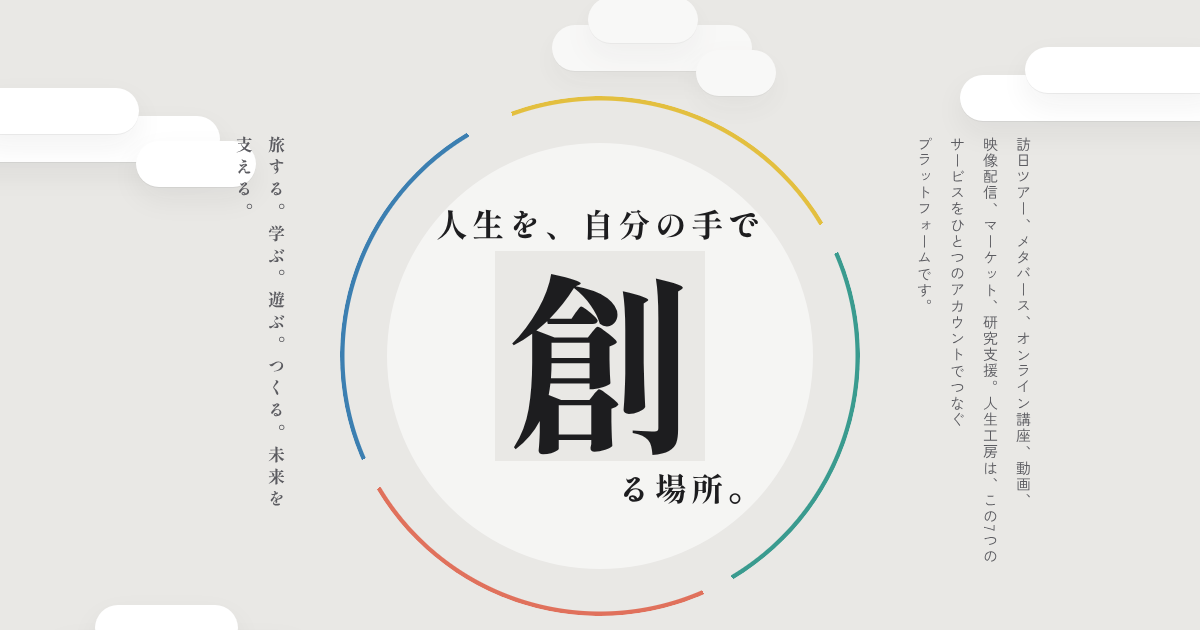
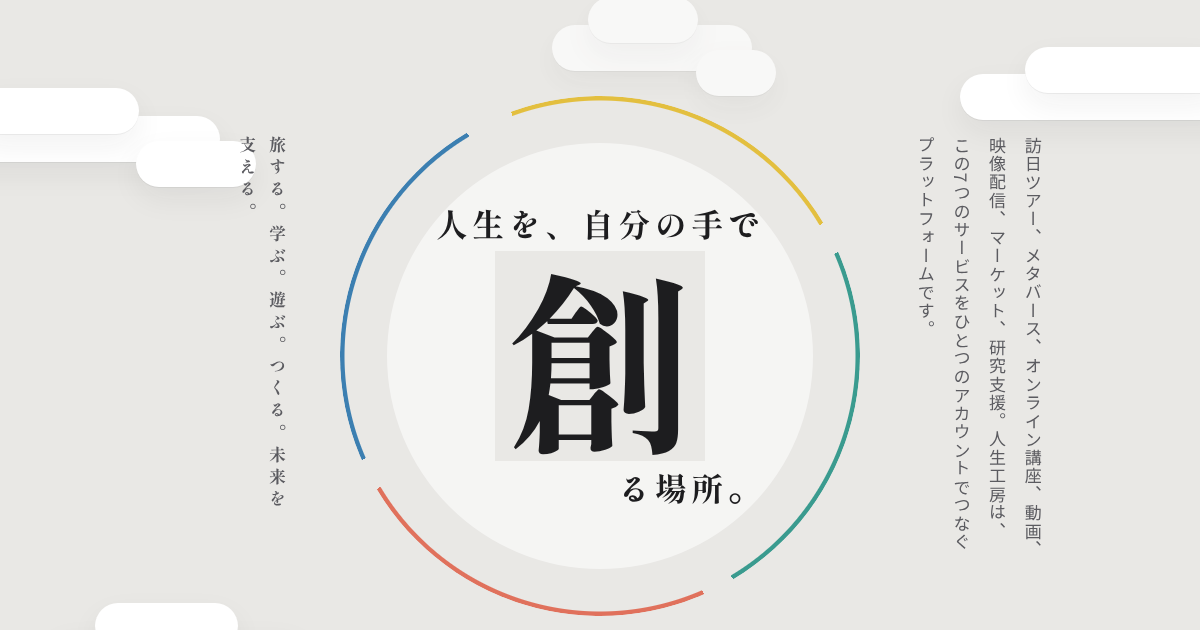
デジタル庁デザインシステムとMaterial 3の基準をデザインに反映
- 全テキストのコントラストをWCAG 2.2 AA以上に（ライト・ダークとも計測で0件）
- 文字サイズと行間をデジタル庁トークンの段階にそろえ、本文の下限を14pxに
- 本文書体をNoto Sans JPに変更し、意味色と影にデジタル庁トークンを使用
- 角丸をMaterial 3のshape scaleに統一（ボタンはfull、カードは12px）
- ホバー・フォーカス・押下の状態レイヤーをMaterial 3の値で実装
- 動きの速さと加減速をMaterial 3のmotionトークンにそろえる
- どの背景でも見える二重のフォーカスリングを追加
- 入力欄に見えるラベルを付け、エラーで原因と直し方を伝える

Claude-Session: https://claude.ai/code/session_01LBACWGkgaPbj2pynbsXujo

diff --git a/assets/css/style.css b/assets/css/style.css
@@ -18,23 +18,51 @@
   --mist-edge: rgba(29, 29, 31, .06);
   --primary: #1d1d1f;
   --primary-ink: #ffffff;
-  --shu: #e0715c;           /* 朱（半円・強調） */
+  --shu: #c33e25;           /* 朱（白文字を載せる面・強調文字。白地で5.2:1） */
+  --ring-shu: #e0715c;      /* 朱（装飾の円のみ） */
   --ki: #e3bf3f;            /* 黄 */
   --aomidori: #3a9b8f;      /* 青緑 */
   --ai: #3c7fb1;            /* 藍 */
   --shadow: 0 1px 2px rgba(29, 29, 31, .05), 0 10px 30px rgba(29, 29, 31, .06);
 
-  --c-tour: #b5642f;
+  /* サービス色：すべて白地・紙地で 4.6:1 以上（WCAG 2.2 AA） */
+  --c-tour: #a35a2a;
   --c-meta: #5a49b8;
-  --c-academy: #3f8a5f;
-  --c-channel: #c0463b;
-  --c-theater: #9a7420;
-  --c-market: #3c7fb1;
-  --c-fund: #2f8c80;
+  --c-academy: #377853;
+  --c-channel: #bc453a;
+  --c-theater: #89671c;
+  --c-market: #36719e;
+  --c-fund: #29796f;
+
+  /* 意味色：デジタル庁デザインシステムのトークン値 */
+  --success: #197a4b;       /* color-semantic-success-2 */
+  --error: #ce0000;         /* color-semantic-error-2 */
+  --warning: #c74700;       /* color-semantic-warning-orange-2 */
+  --focus-ring: #0017c1;    /* color-key-900（primitive blue-900） */
+
+  /* 角丸：Material 3 の shape scale */
+  --shape-xs: 4px;   /* corner-extra-small：入力欄・印 */
+  --shape-sm: 8px;   /* corner-small：チップ */
+  --shape-md: 12px;  /* corner-medium：カード */
+  --shape-lg: 16px;  /* corner-large：大きな面 */
+  --shape-xl: 28px;  /* corner-extra-large */
+  --shape-full: 9999px; /* corner-full：ボタン */
+
+  /* 動き：Material 3 の easing / duration */
+  --ease-standard: cubic-bezier(.2, 0, 0, 1);
+  --ease-emph-decel: cubic-bezier(.05, .7, .1, 1);
+  --dur-short: 200ms;    /* duration-short4 */
+  --dur-medium: 300ms;   /* duration-medium2 */
+  --dur-long: 500ms;     /* duration-long2 */
+
+  /* 影：デジタル庁デザインシステムの elevation トークン */
+  --elevation-1: 0 2px 8px 1px rgba(0,0,0,.1), 0 1px 5px 0 rgba(0,0,0,.3);
+  --elevation-2: 0 2px 12px 2px rgba(0,0,0,.1), 0 1px 6px 0 rgba(0,0,0,.3);
+  --elevation-4: 0 6px 20px 4px rgba(0,0,0,.1), 0 2px 6px 0 rgba(0,0,0,.3);
 
   /* 書体：見出し＝明朝、本文＝やわらかいゴシック、英字ラベル＝等幅 */
   --font-display: "Shippori Mincho", "Hiragino Mincho ProN", "Yu Mincho", serif;
-  --font: "Zen Kaku Gothic New", system-ui, -apple-system, "Hiragino Sans", "Noto Sans JP", sans-serif;
+  --font: "Noto Sans JP", system-ui, -apple-system, "Hiragino Sans", sans-serif;
   --font-mono: "IBM Plex Mono", ui-monospace, "SFMono-Regular", monospace;
 
   --radius: 4px;
@@ -246,7 +274,7 @@ button { cursor: pointer; }
   background: conic-gradient(from -20deg,
     var(--ki) 0 22%, transparent 22% 24%,
     var(--aomidori) 24% 47%, transparent 47% 49%,
-    var(--shu) 49% 72%, transparent 72% 74%,
+    var(--ring-shu) 49% 72%, transparent 72% 74%,
     var(--ai) 74% 97%, transparent 97% 100%);
   -webkit-mask: radial-gradient(farthest-side, transparent calc(100% - 5px), #000 calc(100% - 4px));
           mask: radial-gradient(farthest-side, transparent calc(100% - 5px), #000 calc(100% - 4px));
@@ -421,7 +449,7 @@ button { cursor: pointer; }
 .price small { font-size: 12px; font-weight: 500; color: var(--text-sub); margin-left: 2px; }
 .lang { display: flex; gap: 4px; flex-wrap: wrap; }
 .lang span { font-family: var(--font-mono); font-size: 11px; border: 1px solid var(--line); border-radius: 2px; padding: 0 6px; }
-.stars { color: #b8860b; font-size: 13px; font-weight: 700; }
+.stars { color: #8d6608; font-size: 13px; font-weight: 700; }
 
 /* 写真の光と質感をそろえる：左上から光、下に影 */
 .card__thumb::after, .video__thumb::after, .poster::after {
@@ -529,7 +557,7 @@ button { cursor: pointer; }
 .tag-auction { color: var(--c-market); font-weight: 900; font-size: 12px; }
 .tag-buy { color: var(--c-academy); font-weight: 900; font-size: 12px; }
 .bids { font-size: 12px; color: var(--text-sub); }
-.ends { font-family: var(--font-mono); font-size: 12px; color: #c8382c; font-weight: 600; font-variant-numeric: tabular-nums; }
+.ends { font-family: var(--font-mono); font-size: 12px; color: var(--error); font-weight: 600; font-variant-numeric: tabular-nums; }
 .ends.is-soon { animation: blink 1s steps(2) infinite; }
 @keyframes blink { 50% { opacity: .45; } }
 .watch {
@@ -566,8 +594,8 @@ button { cursor: pointer; }
 .fund__nums span { font-size: 11px; color: var(--text-sub); }
 .fund__risk { font-size: 12px; }
 .fund__risk b { display: inline-block; padding: 0 8px; border-radius: 2px; color: #fff; }
-.fund__risk b[data-r="中"] { background: #c27a12; }
-.fund__risk b[data-r="高"] { background: #c8382c; }
+.fund__risk b[data-r="中"] { background: var(--warning); }
+.fund__risk b[data-r="高"] { background: var(--error); }
 .fund__body .btn { margin-top: auto; }
 
 .sim { margin-top: 40px; background: var(--surface); border-radius: var(--radius); padding: 28px 20px; display: grid; gap: 24px; }
@@ -599,9 +627,9 @@ button { cursor: pointer; }
 }
 .venn__c b { font-family: var(--font-display); font-weight: 800; font-size: clamp(16px, 4vw, 22px); letter-spacing: .06em; line-height: 1.4; }
 .venn__c span { font-size: 12px; opacity: .92; line-height: 1.5; }
-.venn__c--1 { left: 22%; top: 0; background: #4f8f74; padding-bottom: 22%; }
-.venn__c--2 { left: 0; bottom: 0; background: #4a90b5; padding-right: 20%; padding-top: 16%; }
-.venn__c--3 { right: 0; bottom: 0; background: #e0715c; padding-left: 20%; padding-top: 16%; }
+.venn__c--1 { left: 22%; top: 0; background: #417660; padding-bottom: 22%; }
+.venn__c--2 { left: 0; bottom: 0; background: #3b7391; padding-right: 20%; padding-top: 16%; }
+.venn__c--3 { right: 0; bottom: 0; background: var(--shu); padding-left: 20%; padding-top: 16%; }
 .venn__core {
   position: absolute; left: 50%; top: 57%; transform: translate(-50%, -50%);
   background: var(--surface); color: var(--text); padding: 4px 10px; border-radius: 2px;
@@ -653,7 +681,7 @@ button { cursor: pointer; }
 @media (max-width: 767px) { .join__arc { --arc-w: 170vw; border-radius: 50% 50% 0 0 / 60% 60% 0 0; } }
 .join__title { font-family: var(--font-display); font-weight: 800; font-size: clamp(24px, 4vw, 38px); letter-spacing: .08em; }
 :root[lang="en"] .join__title { letter-spacing: 0; }
-.join__inner > p:not(.join__msg) { margin-top: 12px; color: rgba(255,255,255,.9); }
+.join__inner > p:not(.join__msg) { margin-top: 12px; color: #fff; }
 .join__form { margin: 28px auto 0; display: flex; flex-wrap: wrap; gap: 10px; max-width: 540px; }
 .join__form input { flex: 1 1 240px; min-width: 0; min-height: 52px; padding: 0 20px; border-radius: 2px; border: 0; color: #111; background: #fff; }
 .join__form .btn { flex: 1 1 180px; }
@@ -708,3 +736,88 @@ button { cursor: pointer; }
   .concept__stamps li { width: 40px; height: 40px; font-size: 18px; }
 }
 .join__form .btn { flex: 1 1 240px; }
+
+
+/* =========================================================
+   デザインシステム層
+   ・デジタル庁デザインシステム（@digital-go-jp/design-tokens 2.1.0）
+     ：文字サイズの段階、行間、意味色、影、アクセシビリティ
+   ・Material Design 3（@material/web 2.5.0 の md-sys トークン）
+     ：角丸の段階、状態レイヤー、動き
+   ========================================================= */
+
+/* ---------- 文字：デジタル庁の文字サイズ段階（14〜64px）と行間（〜1.75） ---------- */
+body { line-height: 1.75; }                         /* line-height-175 */
+h1, h2, h3 { line-height: 1.4; }                    /* line-height-140 */
+.section__lead, .concept__text, .hero__lead { font-size: 17px; line-height: 1.75; }  /* font-size-17 */
+@media (min-width: 1000px) { .hero__lead { line-height: 2.1; } }  /* 縦書きは列の間を広めに */
+.section__title { font-size: clamp(28px, 4.6vw, 45px); }           /* 28 → 45 */
+.card__title { line-height: 1.5; }
+
+/* 読ませる日本語は14px（font-size-14）を下限にする */
+.demo-bar, .card__meta, .card__label, .bids, .ends, .watch-count, .tag-auction, .tag-buy,
+.fund__nums span, .fund__risk, .sim__note, .sim__share, .sim__total, .risk ul, .flow p,
+.video__sub, .hero__stats span, .footer__copy, .footer__links, .footer__bottom,
+.meta__visited, .meta__features, .meta__desc, .venn__c span, .eco__item p, .roadmap p,
+.work p, .theater__hero p, .select, .fund__text, .card__text, .stars { font-size: 14px; }
+.poster__new { font-size: 12px; }
+
+/* ---------- 角丸：Material 3 の shape scale ---------- */
+.btn { border-radius: var(--shape-full); }
+.chip, .tab, .lang-toggle { border-radius: var(--shape-sm); }
+.card, .fund, .flow li, .roadmap li, .video__thumb, .poster, .meta__stage, .meta__info,
+.sim__out, .fund__nums div, .card__label { border-radius: var(--shape-md); }
+.card__label { border-radius: var(--shape-xs); }
+.sim, .theater__hero, .risk { border-radius: var(--shape-lg); }
+.channel__search input, .join__form input, .select select, .sim__body select { border-radius: var(--shape-xs); }
+.badge, .logo__mark, .concept__stamps li, .nav a:not(.btn) i, .fund__risk b, .lang span, .poster__new, .video__time { border-radius: var(--shape-xs); }
+.roadmap li { border-top: 0; box-shadow: inset 0 3px 0 var(--text); }
+.toast { border-radius: var(--shape-sm); }
+
+/* ---------- 状態レイヤー：Material 3（hover .08 / focus .12 / pressed .12） ---------- */
+.btn, .chip, .tab, .lang-toggle, .watch, .meta__pad button, .faq summary, .work__arrow, .to-top {
+  --state: 0%;
+  background-image: linear-gradient(color-mix(in srgb, currentColor var(--state), transparent) 0 0);
+  transition: background-color var(--dur-short) var(--ease-standard), border-color var(--dur-short) var(--ease-standard),
+    color var(--dur-short) var(--ease-standard), box-shadow var(--dur-short) var(--ease-standard);
+}
+.btn:hover, .chip:hover, .tab:hover, .lang-toggle:hover, .watch:hover, .meta__pad button:hover, .faq summary:hover, .to-top:hover { --state: 8%; }
+.btn:focus-visible, .chip:focus-visible, .tab:focus-visible, .lang-toggle:focus-visible, .watch:focus-visible, .faq summary:focus-visible, .to-top:focus-visible { --state: 12%; }
+.btn:active, .chip:active, .tab:active, .lang-toggle:active, .watch:active, .meta__pad button:active, .faq summary:active, .to-top:active { --state: 12%; }
+.btn:hover { transform: none; }
+.card:hover { transform: none; box-shadow: var(--elevation-1); }
+
+/* ---------- 動き：Material 3 の easing / duration ---------- */
+.card, .video__thumb, .poster { transition: box-shadow var(--dur-medium) var(--ease-standard), transform var(--dur-medium) var(--ease-standard); }
+.work::before { transition: transform var(--dur-long) var(--ease-standard); }
+.toast { transition: transform var(--dur-medium) var(--ease-emph-decel), opacity var(--dur-medium) var(--ease-standard); }
+.reveal.is-anim { animation: rise var(--dur-long) var(--ease-emph-decel) both; }
+
+/* ---------- 影：デジタル庁の elevation（重なる部品だけに使う） ---------- */
+.toast { box-shadow: var(--elevation-4); }
+.to-top, .watch { box-shadow: var(--elevation-2); }
+.venn__core { box-shadow: var(--elevation-1); }
+
+/* ---------- フォーカス：どの背景でも見える二重の輪 ---------- */
+:focus-visible { outline: 2px solid #fff; outline-offset: 0; box-shadow: 0 0 0 4px var(--focus-ring); }
+.section--dark :focus-visible, .section--theater :focus-visible, .work:focus-visible { box-shadow: 0 0 0 4px #ffd43d; outline-color: #1d1d1f; }
+
+/* ---------- フォーム：見えるラベルと、エラーの伝え方 ---------- */
+.field-label { display: block; font-size: 14px; font-weight: 700; margin-bottom: 6px; }
+.channel__search .field-label { color: var(--text); }
+.join__form { align-items: flex-end; }
+.join__field { flex: 1 1 260px; min-width: 0; text-align: left; }
+.join__field .field-label { color: #fff; }
+.join__field input { width: 100%; border: 2px solid transparent; }
+.join__field input[aria-invalid="true"] { border-color: #ffd43d; }
+.join__msg { font-weight: 700; }
+.join__msg.is-error::before { content: "⚠ "; }
+.join__hint { margin-top: 6px; font-size: 14px; color: #fff; text-align: left; }
+
+/* ---------- 意味色のダークモード対応（暗い背景でも 4.5:1 以上） ---------- */
+:root { --star: #8d6608; }
+@media (prefers-color-scheme: dark) { :root:not([data-theme="light"]) { --error: #ff8a80; --warning: #c74700; --star: #e8c15a; } }
+:root[data-theme="dark"] { --error: #ff8a80; --warning: #c74700; --star: #e8c15a; }
+.stars { color: var(--star); }
+.watch-count b { color: var(--error); }
+.fund__risk b[data-r="高"] { background: #ce0000; }

diff --git a/assets/js/main.js b/assets/js/main.js
@@ -550,11 +550,18 @@
     e.preventDefault();
     const input = $("#joinEmail");
     const msg = $("#joinMsg");
+    // エラーは「何が問題か」と「どう直すか」を、入力欄と結びつけて伝える
     if (!input.value || !input.checkValidity()) {
-      msg.textContent = tr("メールアドレスの形式をご確認ください。", "Please check that your email address is correct.");
+      input.setAttribute("aria-invalid", "true");
+      msg.classList.add("is-error");
+      msg.textContent = !input.value
+        ? tr("メールアドレスを入力してください。", "Please enter your email address.")
+        : tr("メールアドレスの形式が正しくありません。「name@example.com」のように入力してください。", "That email address doesn't look right. Use a format like name@example.com.");
       input.focus();
       return;
     }
+    input.removeAttribute("aria-invalid");
+    msg.classList.remove("is-error");
     msg.textContent = tr("ありがとうございます！（デモのため、実際には送信・保存されていません）", "Thank you! (This is a demo, so nothing was sent or saved.)");
     input.value = "";
   });
@@ -639,8 +646,8 @@
 
     ["#channel .section__title", "Koubo Channel: everyone can be a creator"],
     ["#channel .section__lead", "Artisan craft, travel diaries, research explainers: anyone can post videos. Creators are planned to earn from ads and from fans' tips."],
-    ["#videoSearch", "Search videos (e.g. pottery, Kyoto, research)", "placeholder"],
-    ["#videoSearch", "Search videos", "aria-label"],
+    ["#videoSearch", "e.g. pottery, Kyoto, research", "placeholder"],
+    ['label[for="videoSearch"]', "Search videos"],
     ["#videoEmpty", "No videos match your search."],
 
     ["#theater .section__title", "Koubo Theater: unlimited originals"],
@@ -717,7 +724,7 @@
     [".join__title", "Be one of the first<br class=\"sp\"> members of Jinsei Koubo"],
     [".join__inner > p:not(.join__msg)", "Get launch news and early-access invitations."],
     ['label[for="joinEmail"]', "Email address"],
-    ["#joinEmail", "Email address", "placeholder"],
+    ["#joinEmail", "e.g. name@example.com", "placeholder"],
     [".join__form .btn", "Sign up for launch news"],
 
     [".footer__copy", "Travel. Learn. Play. Make. Back the future."],

diff --git a/index.html b/index.html
@@ -20,7 +20,7 @@
   <meta name="twitter:card" content="summary_large_image">
   <link rel="preconnect" href="https://fonts.googleapis.com">
   <link rel="preconnect" href="https://fonts.gstatic.com" crossorigin>
-  <link href="https://fonts.googleapis.com/css2?family=Shippori+Mincho:wght@500;600;700;800&family=Zen+Kaku+Gothic+New:wght@400;500;700;900&family=IBM+Plex+Mono:wght@500;600&display=swap" rel="stylesheet">
+  <link href="https://fonts.googleapis.com/css2?family=Noto+Sans+JP:wght@400;500;700;900&family=Shippori+Mincho:wght@600;700;800&family=IBM+Plex+Mono:wght@500;600&display=swap" rel="stylesheet">
   <link rel="stylesheet" href="assets/css/style.css">
 </head>
 <body>
@@ -192,7 +192,8 @@
         </header>
         <div class="channel">
           <div class="channel__search">
-            <input type="search" id="videoSearch" placeholder="動画を検索（例：陶芸、京都、研究）" aria-label="動画を検索">
+            <label class="field-label" for="videoSearch">動画を検索</label>
+            <input type="search" id="videoSearch" placeholder="例：陶芸、京都、研究">
           </div>
           <div class="video-grid" id="videoList"></div>
           <p class="empty" id="videoEmpty" hidden>該当する動画が見つかりませんでした。</p>
@@ -369,8 +370,10 @@
           <h2 class="join__title">人生工房の最初のメンバーに<br class="sp">なりませんか。</h2>
           <p>サービス開始のお知らせや、先行体験のご案内をお届けします。</p>
           <form class="join__form" id="joinForm" novalidate>
-            <label class="visually-hidden" for="joinEmail">メールアドレス</label>
-            <input type="email" id="joinEmail" placeholder="メールアドレス" required autocomplete="email">
+            <div class="join__field">
+              <label class="field-label" for="joinEmail">メールアドレス</label>
+              <input type="email" id="joinEmail" placeholder="例：name@example.com" required autocomplete="email" aria-describedby="joinMsg">
+            </div>
             <button class="btn btn--light" type="submit">登録してお知らせを受け取る</button>
           </form>
           <p class="join__msg" id="joinMsg" aria-live="polite"></p>

diff --git a/README.md b/README.md
@@ -55,3 +55,18 @@ assets/js/main.js     … サンプルデータと動き
 5. 1〜2分待つと、上の公開URLで表示されます
 
 以後は、そのブランチに変更をプッシュするたびに、サイトが自動で更新されます。
+
+## デザインの基準（デザインシステム）
+
+次の2つの公式トークン（数値データ）を、npmで配布されている版から読み取り、設計値に使っています。
+
+| 項目 | 採用した基準 | 出典 |
+|---|---|---|
+| 文字サイズ・行間 | 14〜64pxの段階、行間は最大1.75。読ませる日本語は14px以上 | デジタル庁 `@digital-go-jp/design-tokens` 2.1.0 |
+| 本文書体 | Noto Sans JP | 同上（font-family-sans） |
+| 意味色 | 成功 #197a4b／エラー #ce0000／警告 #c74700 | 同上（color-semantic-*） |
+| 影 | elevation-1／2／4 | 同上（elevation-*） |
+| 角丸 | 4／8／12／16／28px／full | Material 3 `@material/web` 2.5.0（md-sys-shape） |
+| 状態の表示 | ホバー8%／フォーカス12%／押下12%の重ね色 | 同上（md-sys-state） |
+| 動き | cubic-bezier(.2,0,0,1) など、200／300／500ms | 同上（md-sys-motion） |
+| コントラスト | 全テキストが WCAG 2.2 AA（4.5:1、大きな文字は3:1）以上 | デジタル庁デザインシステムが準拠する基準 |
